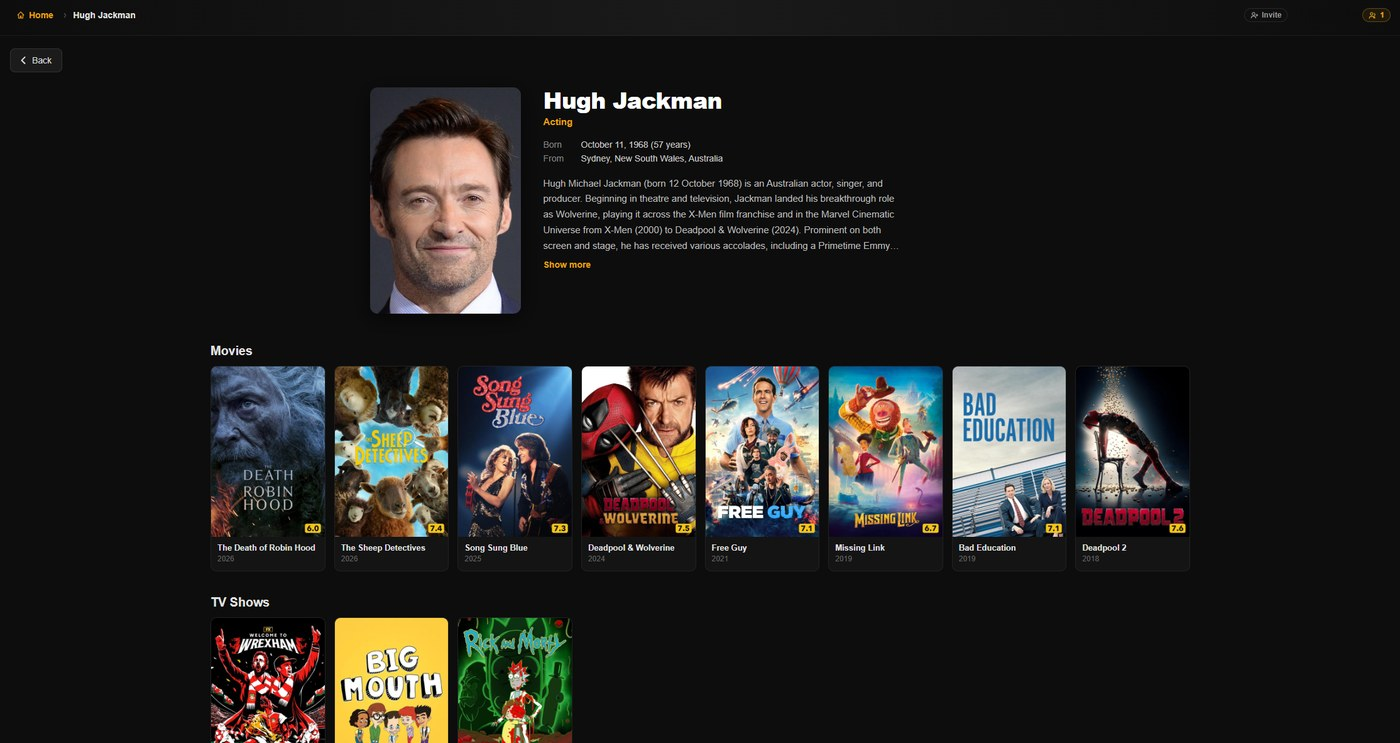
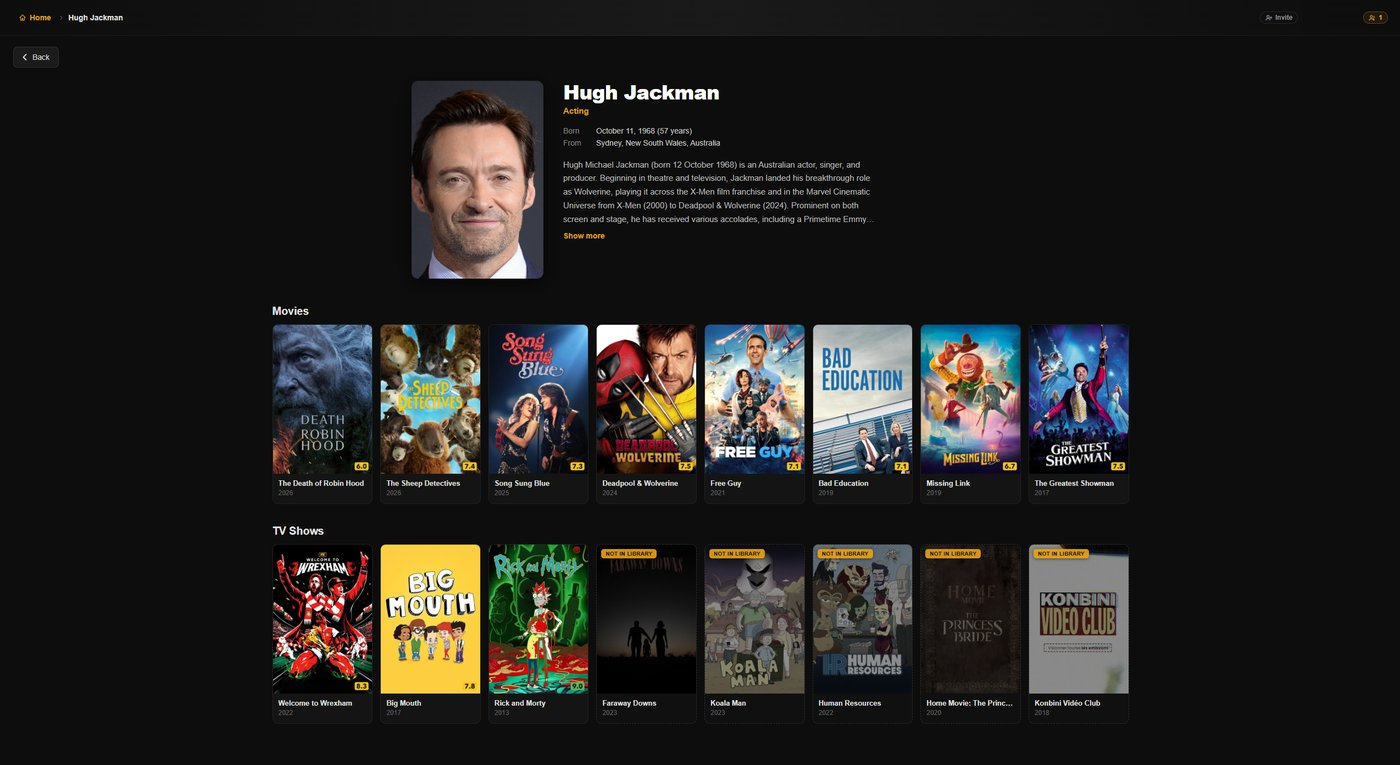
Re-shoot the desktop screenshots
Six of them showed a version of the app that no longer exists: the person page
before the rest of the career sat behind the library half, and the Home, search,
title and request pages from before the layout settled. The player and the two
phone shots are unchanged and still accurate.

The username is painted out of each top bar, as before — but interpolated across
rather than filled with a sampled colour. The bar carries a gradient of about
three levels of grey from the middle of the frame to its right edge, so a flat
patch leaves a paler rectangle exactly where the name was, which is its own kind
of watermark. Reading the clean gaps either side and fading between them
reproduces whatever the bar was doing there: measured 14 → 13 across the patch
against 14 to its left and 13 to its right, no step at either edge.

Two alt texts went with them — the person page no longer shows only the library,
and Home leads with Continue Watching now.

diff --git a/README.md b/README.md
@@ -31,7 +31,7 @@ same frame, and hovering the seek bar gives you Plex's thumbnail previews.
 Back out of the player and you land on your Plex home screen — the same hubs your
 server already builds.
 
-![The Home tab, with Trending, Popular and Top Rated poster rows](docs/screenshots/home.jpg)
+![The Home tab, with Continue Watching, Trending Movies and Popular Movies poster rows](docs/screenshots/home.jpg)
 
 Search covers your library and Plex Discover together, so titles you haven't got
 yet still turn up — badged **Not in library** so you can tell them apart.
@@ -48,7 +48,7 @@ first, straight out of Plex's own cast index; the rest of their career follows
 behind it, requestable like anything else. Newest first in both halves, and
 appearances as themselves — chat shows, talking-head documentaries — left out.
 
-![Hugh Jackman's page: biography and dates, then his films and shows from the library](docs/screenshots/person.jpg)
+![Hugh Jackman's page: biography and dates, then his films and shows — the ones in the library first, the rest badged Not in library](docs/screenshots/person.jpg)
 
 With Seerr connected, you can request anything you don't have
 without leaving the Activity.
